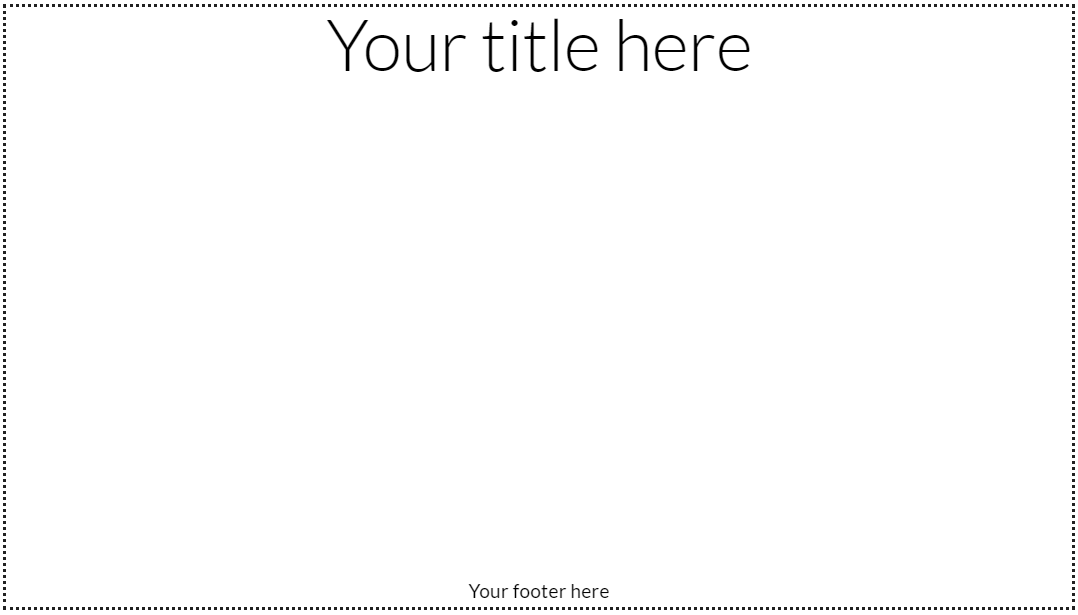
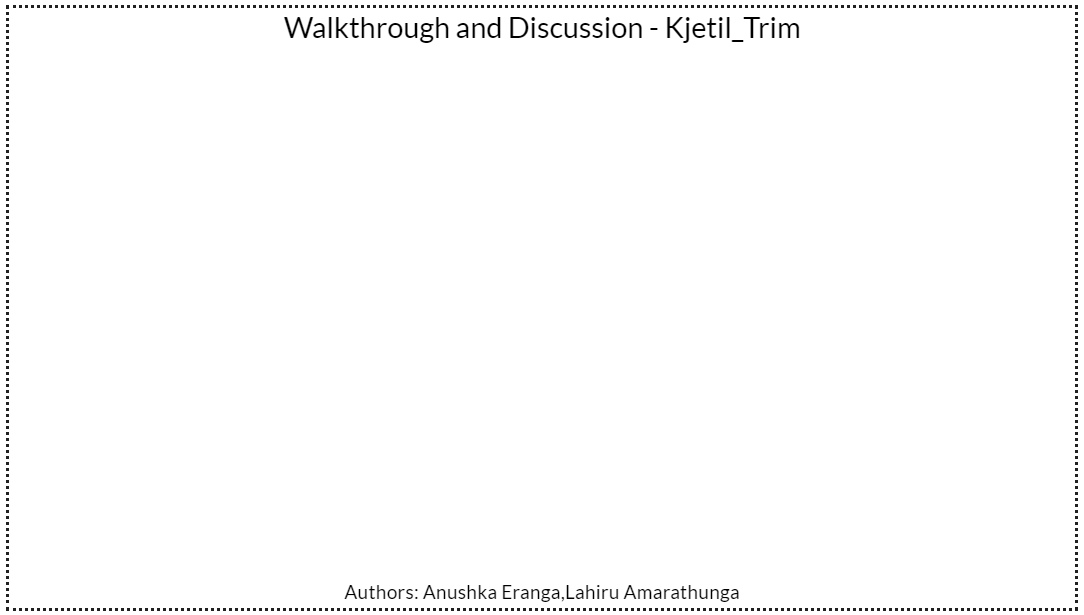
-show saved intro image when editing

Changed region(s): [[0.0, 0.0, 1.0, 1.0]]

diff --git a/src/components/SplashEditor.vue b/src/components/SplashEditor.vue
@@ -4,7 +4,22 @@
       @setTemplate="setTemplate"
       :chooseTemplate="chooseTemplate"
     ></TemplateBuilder>
-    <v-layout row>
+    <v-layout v-if="splash" row justify-center>
+<v-flex md9>
+        <div class="splash-container">
+        <v-img class="img" :src="splash" style="outline-style: dotted;"></v-img>
+        <v-btn
+          @click="splash = null"
+          large
+          dark
+          color="rgba(0, 0, 0, 0.8)"
+          class="btn"
+          >Edit Intro Screen</v-btn
+        >
+      </div>
+</v-flex>
+    </v-layout>
+    <v-layout v-else row>
       <v-flex md9 mr-10 ml-3>
         <div ref="canvas">
           <v-sheet
@@ -231,9 +246,6 @@
       </v-flex>
       <v-flex md2>
         <v-layout column justify-center wrap>
-          <v-layout mb-4 v-if="getSplashScreenObject().data == 'edit'">
-            <v-btn color="warning" block @click="skip()">Skip</v-btn>
-          </v-layout>
           <v-layout row justify-start>
             <v-flex xs2>
               <v-tooltip bottom>
@@ -365,6 +377,7 @@ export default {
   },
   props: ["skip"],
   data: () => ({
+    splash: null,
     timer: null,
     chooseTemplate: false,
     fontSize: "display-2",
@@ -483,7 +496,7 @@ export default {
   },
   methods: {
     ...mapMutations(["setSplashScreenObject", "setWatermark"]),
-    ...mapGetters(["getSplashScreenObject"]),
+    ...mapGetters(["getSplashScreenObject", "getVideoObject"]),
     create_UUID() {
       var dt = new Date().getTime();
       var uuid = "xxxxxxxxxxxx4xxxyxxxxxxxxxxxxxxx".replace(/[xy]/g, function(
@@ -702,6 +715,10 @@ export default {
     },
 
     async validate() {
+      if (this.splash) {
+        return false;
+      }
+
       this.selectedElement = null;
       let watermarkPosition = null;
       let watermarkWidthRatio = null;
@@ -755,6 +772,10 @@ export default {
     if (this.getSplashScreenObject().duration != null) {
       this.duration = this.getSplashScreenObject().duration;
     }
+    // if (this.getSplashScreenObject().data == "edit") {
+    this.splash =
+      this.API_URL + "/api/video/splash?id=" + this.getVideoObject().id;
+    // }
   }
 };
 </script>
@@ -803,5 +824,17 @@ export default {
 .logo {
   display: block;
   height: auto;
+}
+
+.splash-container {
+  position: relative;
+}
+
+.splash-container .btn {
+  position: absolute;
+  top: 50%;
+  left: 50%;
+  transform: translate(-50%, -50%);
+  -ms-transform: translate(-50%, -50%);
 }
 </style>

diff --git a/src/components/VideoUpload.vue b/src/components/VideoUpload.vue
@@ -31,7 +31,7 @@
     <v-form ref="form">
       <v-alert v-if="feedback" type="error">{{ feedback }}</v-alert>
       <v-file-input
-        v-if="getVideoObject().file == null"
+        v-if="!$route.params.is_edit"
         ref="videoSelect"
         clearable
         color="blue darken-3"
